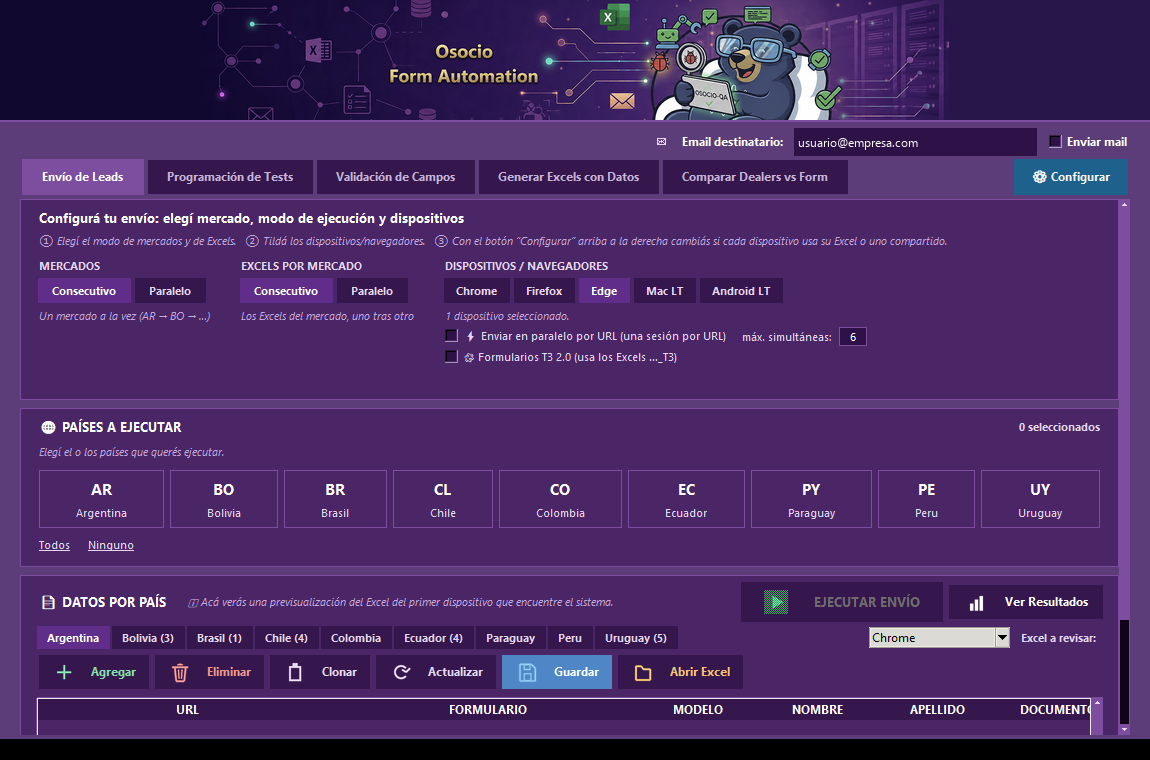
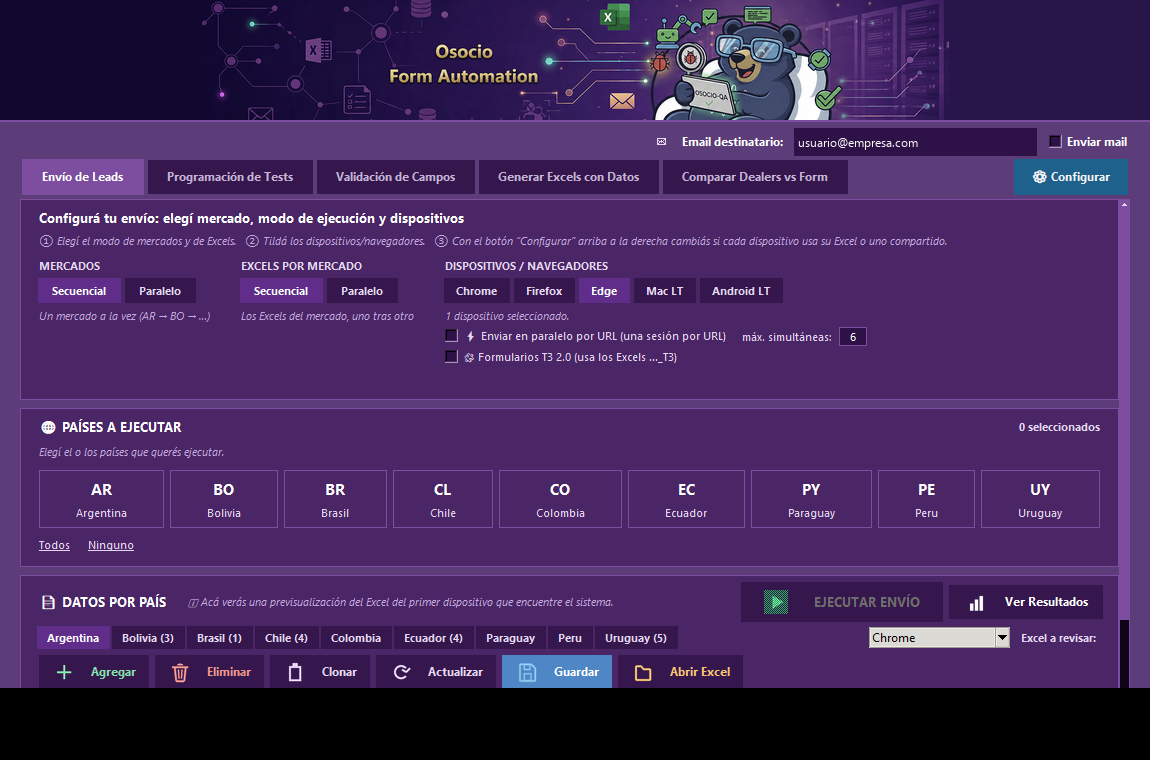
UI: "Consecutivo" -> "Secuencial" y boton Guardar de credenciales LT visible
- Las etiquetas de MERCADOS / EXCELS POR MERCADO, la pastilla del scheduler y las
  del modal ahora dicen "Secuencial". El valor interno sigue siendo "consecutivo"
  para no invalidar la config ni el schedule ya guardados: make_pill_group ahora
  acepta ("Etiqueta", "valor") ademas de un string suelto.
- El boton "Guardar" de CREDENCIALES LT pasa a una fila propia debajo de User/Key
  (antes iba en una 3ra columna y quedaba cortado).
- Capturas actualizadas.

Changed region(s): [[0.0, 0.9079, 1.0, 0.9987], [0.213, 0.3632, 0.3652, 0.3934], [0.0304, 0.3632, 0.1826, 0.3934]]

diff --git a/interface/main_interface.py b/interface/main_interface.py
@@ -1215,8 +1215,10 @@ def iniciar_interfaz():
                     pass
 
         for opt in options:
-            opt_val = opt.lower()
-            b = tk.Button(btn_row, text=opt, font=("Segoe UI", 8, "bold"), bg=BUTTON_INACTIVE, fg=TEXT_SECONDARY,
+            # opt puede ser "Texto" (el valor se deriva en minúscula) o ("Texto visible", "valor_interno"),
+            # para poder cambiar la etiqueta sin romper lo que ya está guardado en config/schedule.
+            opt_txt, opt_val = opt if isinstance(opt, tuple) else (opt, opt.lower())
+            b = tk.Button(btn_row, text=opt_txt, font=("Segoe UI", 8, "bold"), bg=BUTTON_INACTIVE, fg=TEXT_SECONDARY,
                           relief="flat", bd=0, activebackground=BUTTON_HOVER, activeforeground="white",
                           highlightthickness=1, highlightbackground=BUTTON_INACTIVE,
                           padx=12, pady=4, cursor="hand2")
@@ -1244,11 +1246,11 @@ def iniciar_interfaz():
     saved_excels_mode = _ui_prefs.get("excels_mode", "consecutivo")
 
     mercados_mode = make_pill_group(
-        row_config, "MERCADOS", "", ["Consecutivo", "Paralelo"], saved_mercados_mode,
+        row_config, "MERCADOS", "", [("Secuencial", "consecutivo"), ("Paralelo", "paralelo")], saved_mercados_mode,
         sub_texts={"consecutivo": "Un mercado a la vez (AR → BO → …)", "paralelo": "Todos los mercados a la vez"},
         on_change=lambda v: _save_ui_prefs())
     excels_mode = make_pill_group(
-        row_config, "EXCELS POR MERCADO", "", ["Consecutivo", "Paralelo"], saved_excels_mode,
+        row_config, "EXCELS POR MERCADO", "", [("Secuencial", "consecutivo"), ("Paralelo", "paralelo")], saved_excels_mode,
         sub_texts={"consecutivo": "Los Excels del mercado, uno tras otro", "paralelo": "Todos a la vez (solo browsers locales Chrome/FF/Edge)"},
         on_change=lambda v: [_refresh_excel_par_warning(), _save_ui_prefs()])
 
@@ -1499,8 +1501,9 @@ def iniciar_interfaz():
         except Exception as e:
             messagebox.showerror("LambdaTest", f"Error al guardar credenciales:\n{e}")
     
+    # Debajo de User/Key (antes iba a la derecha en una 3ra columna y quedaba cortado)
     lt_save_btn = make_icon_btn(lt_creds_frame, "💾 Guardar", TEXT_SAVE, command=_save_lt_creds, pack_btn=False)
-    lt_save_btn.grid(row=1, column=2, rowspan=2, padx=6, pady=1, sticky="ns")
+    lt_save_btn.grid(row=3, column=0, columnspan=2, padx=4, pady=(5, 1), sticky="ew")
 
     # ADVERTENCIA DINÁMICA DE MÚLTIPLES DISPOSITIVOS (Figma Style)
     warning_box = tk.Frame(config_card, bg=WARN_BG, bd=1, highlightthickness=1, highlightbackground=WARN_BORDER)
@@ -1834,7 +1837,7 @@ def iniciar_interfaz():
     sched_warning_lbl = tk.Label(right_col, text="", font=("Segoe UI", 8, "italic"), bg=SCHED_BG, fg="#F8C471", justify="left")
 
     _mode_opts = [
-        ("Consecutivo", "consecutivo"),
+        ("Secuencial", "consecutivo"),
         ("Paralelo", "paralelo")
     ]
     for opt_txt, opt_val in _mode_opts:
@@ -1936,7 +1939,7 @@ def iniciar_interfaz():
 
             # Pill de modo de ejecución
             cur_mode = scheduler_cfg.get("modo_excel", "consecutivo")
-            mode_txt = "CONSECUTIVO" if cur_mode == "consecutivo" else "PARALELO"
+            mode_txt = "SECUENCIAL" if cur_mode == "consecutivo" else "PARALELO"
             pill_m = tk.Frame(details_frame, bg="#2C3E50", bd=0, highlightthickness=1, highlightbackground="#5DADE2")
             pill_m.pack(side="left", padx=4, pady=2)
             tk.Label(pill_m, text=f" {mode_txt} ", font=("Segoe UI", 8, "bold"), bg="#2C3E50", fg="#AED6F1").pack(side="left", pady=1)
@@ -2974,8 +2977,8 @@ def iniciar_interfaz():
             make_pill(badges_row, f" Por URL: Paralelo (máx {url_max})", icon="link_lav.png")
             make_pill(badges_row, " 1 navegador por URL", icon="gear_lav.png")
         else:
-            make_pill(badges_row, f" Mercados: {'Paralelo' if mercados_par else 'Consecutivo'}", icon="link_lav.png")
-            make_pill(badges_row, f" Excels: {'Paralelo' if excels_par else 'Consecutivo'}", icon="gear_lav.png")
+            make_pill(badges_row, f" Mercados: {'Paralelo' if mercados_par else 'Secuencial'}", icon="link_lav.png")
+            make_pill(badges_row, f" Excels: {'Paralelo' if excels_par else 'Secuencial'}", icon="gear_lav.png")
         make_pill(badges_row, f" {total_sessions} mercado(s)", icon="monitor_lav.png")
 
         # Aviso durante la ejecución (se quita al completar)

diff --git a/README.md b/README.md
@@ -91,7 +91,7 @@ Qué muestra, de arriba abajo:
 
 - **Ejecutando… / N de M mercado(s) completados**: el avance general de la corrida.
 - **Detener**: corta todo. No mata el proceso de golpe: le avisa a las sesiones que frenen, así que puede tardar unos segundos en cerrar los navegadores que estén a mitad de un lead.
-- **Las tres pastillas** (*Mercados: Consecutivo · Excels: Consecutivo · N mercado(s)*): un recordatorio de con qué configuración arrancó **esta** corrida. Sirve para no confundirte si después cambiás los selectores de atrás.
+- **Las tres pastillas** (*Mercados: Secuencial · Excels: Secuencial · N mercado(s)*): un recordatorio de con qué configuración arrancó **esta** corrida. Sirve para no confundirte si después cambiás los selectores de atrás.
 - **Una barra por mercado + dispositivo** (`Bolivia — Chrome`, `Brasil — Chrome`, …): cada una avanza sola. A la derecha ves el estado: mientras corre dice cuántos leads van (`0/1 lead(s) listos`) y al terminar cambia al resultado (`✓ 1 OK · 0 error(es)`). La barra queda **verde** cuando el mercado terminó y **naranja** mientras está en curso.
 
 Mientras el modal está abierto, **la ventana de atrás queda bloqueada** (no podés tocar los selectores ni cambiar de pestaña) para que no le muevas la configuración a una corrida en progreso — por eso el aviso amarillo *"No podés cerrar esta ventana mientras se ejecuta. Para correr otro test ahora, abrí otra ventana de la app."* El botón EJECUTAR ENVÍO de atrás también se deshabilita y pasa a decir **"EN CURSO…"**:
